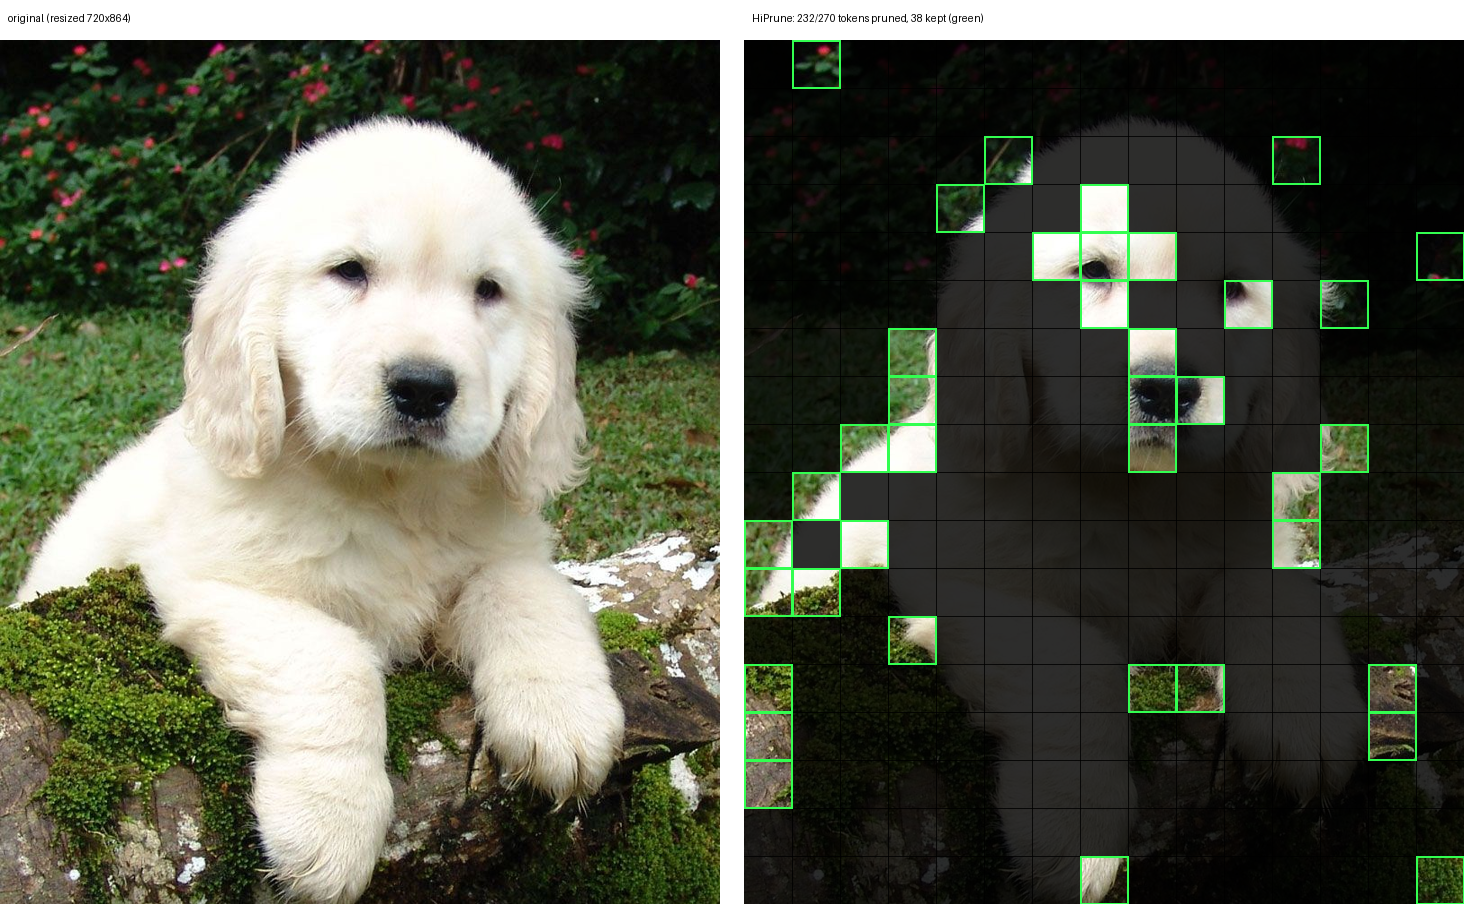
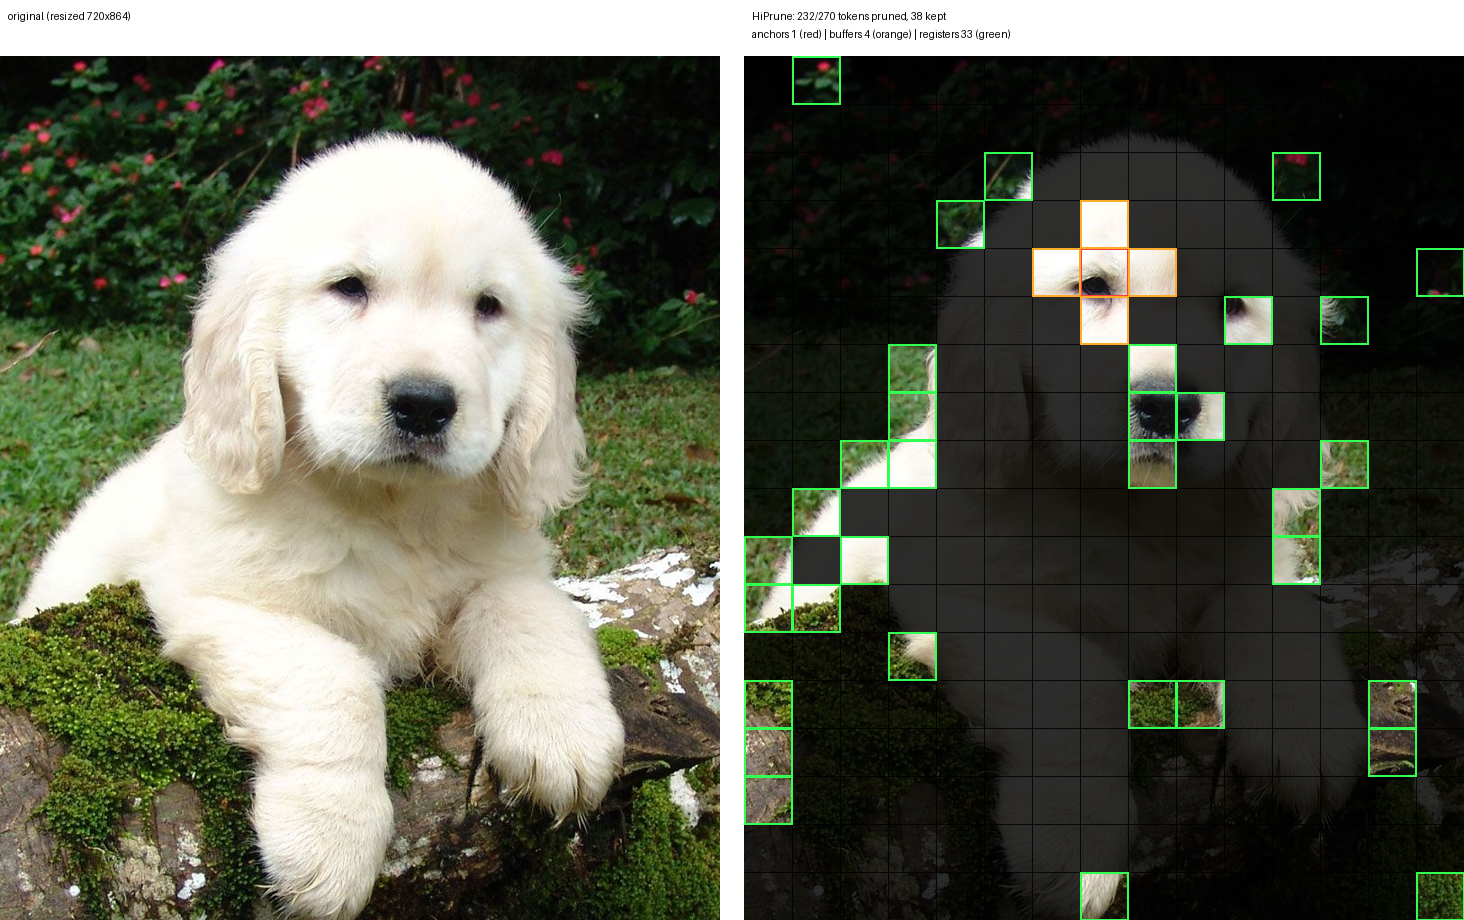
Update overlay demo for token_pruning_metadata categories
The example script now color-codes kept tokens by HiPrune category (anchors red, buffers orange, registers green) using the new token_pruning_metadata response field, and prints the per-category mean attention.

diff --git a/examples/hiprune/visualize_pruned.py b/examples/hiprune/visualize_pruned.py
@@ -1,8 +1,13 @@
 """Render a HiPrune overlay from a vLLM chat response.
 
-Reads the original image and the `pruned_token_indices` returned by the
-vLLM server, maps each pruned soft-token index onto Gemma 4's 48x48 px
-grid, and saves a side-by-side figure: original | pruned overlay.
+Reads the original image and the pruning data returned by the vLLM
+server and draws it over the image: pruned 48x48 px cells are darkened
+and kept cells are outlined by HiPrune category — anchors (red),
+buffers (orange), registers (green).
+
+Prefers the `token_pruning_metadata` response field (which carries the
+grid and token categories); falls back to `pruned_token_indices` (kept
+cells all green, grid reconstructed from the image size).
 
 Usage:
     python3 visualize_pruned.py <image> <response.json> <output.png>
@@ -17,6 +22,11 @@ POOL_K = 3      # Gemma pools 3x3 patches into one soft token
 PATCH = 16      # ViT patch size in px
 CELL = POOL_K * PATCH  # 48 px of resized image per soft token
 MAX_SOFT_TOKENS = 280
+
+ANCHOR_COLOR = (255, 60, 60, 255)
+BUFFER_COLOR = (255, 170, 40, 255)
+REGISTER_COLOR = (50, 255, 80, 255)
+PRUNED_FILL = (0, 0, 0, 210)
 
 
 def gemma_grid(width: int, height: int) -> tuple[int, int]:
@@ -43,41 +53,70 @@ def main() -> None:
     img = Image.open(image_path).convert("RGB")
     with open(resp_path) as f:
         resp = json.load(f)
-    pruned = resp["pruned_token_indices"][0]
 
-    grid_w, grid_h = gemma_grid(*img.size)
+    metadata = (resp.get("token_pruning_metadata") or [None])[0]
+    if metadata is not None:
+        grid_w, grid_h = metadata["grid"]
+        pruned = metadata["pruned"]
+        categories = {
+            "anchor": (metadata["anchors"], ANCHOR_COLOR),
+            "buffer": (metadata["buffers"], BUFFER_COLOR),
+            "register": (metadata["registers"], REGISTER_COLOR),
+        }
+    else:
+        grid_w, grid_h = gemma_grid(*img.size)
+        pruned = resp["pruned_token_indices"][0]
+        kept = sorted(set(range(grid_w * grid_h)) - set(pruned))
+        categories = {"kept": (kept, REGISTER_COLOR)}
+
     n_soft = grid_w * grid_h
     resized = img.resize((grid_w * CELL, grid_h * CELL), Image.BICUBIC)
+
+    def cell_box(idx: int) -> list[int]:
+        r, c = idx // grid_w, idx % grid_w
+        return [c * CELL, r * CELL, c * CELL + CELL, r * CELL + CELL]
 
     overlay = resized.copy()
     draw = ImageDraw.Draw(overlay, "RGBA")
     for idx in pruned:
-        r, c = idx // grid_w, idx % grid_w
-        x0, y0 = c * CELL, r * CELL
-        draw.rectangle([x0, y0, x0 + CELL, y0 + CELL], fill=(0, 0, 0, 210))
-    # Outline kept cells so they pop.
-    kept = sorted(set(range(n_soft)) - set(pruned))
-    for idx in kept:
-        r, c = idx // grid_w, idx % grid_w
-        x0, y0 = c * CELL, r * CELL
-        draw.rectangle([x0, y0, x0 + CELL, y0 + CELL], outline=(50, 255, 80, 255), width=2)
+        draw.rectangle(cell_box(idx), fill=PRUNED_FILL)
+    for _, (indices, color) in categories.items():
+        for idx in indices:
+            draw.rectangle(cell_box(idx), outline=color, width=2)
 
     gap = 24
     canvas = Image.new(
-        "RGB", (resized.width * 2 + gap, resized.height + 40), (255, 255, 255)
+        "RGB", (resized.width * 2 + gap, resized.height + 56), (255, 255, 255)
     )
-    canvas.paste(resized, (0, 40))
-    canvas.paste(overlay, (resized.width + gap, 40))
+    canvas.paste(resized, (0, 56))
+    canvas.paste(overlay, (resized.width + gap, 56))
     d = ImageDraw.Draw(canvas)
-    d.text((8, 12), f"original (resized {resized.width}x{resized.height})", fill=(0, 0, 0))
+    d.text((8, 10), f"original (resized {resized.width}x{resized.height})", fill=(0, 0, 0))
+    n_kept = n_soft - len(pruned)
     d.text(
-        (resized.width + gap + 8, 12),
-        f"HiPrune: {len(pruned)}/{n_soft} tokens pruned, {len(kept)} kept (green)",
+        (resized.width + gap + 8, 10),
+        f"HiPrune: {len(pruned)}/{n_soft} tokens pruned, {n_kept} kept",
         fill=(0, 0, 0),
     )
+    if metadata is not None:
+        d.text(
+            (resized.width + gap + 8, 28),
+            f"anchors {len(metadata['anchors'])} (red) | "
+            f"buffers {len(metadata['buffers'])} (orange) | "
+            f"registers {len(metadata['registers'])} (green)",
+            fill=(0, 0, 0),
+        )
     canvas.save(out_path)
     print(f"grid {grid_w}x{grid_h} = {n_soft} soft tokens; "
-          f"{len(pruned)} pruned, {len(kept)} kept -> {out_path}")
+          f"{len(pruned)} pruned, {n_kept} kept -> {out_path}")
+    if metadata is not None:
+        ma = metadata["mean_attention"]
+        print("mean attention (object layer):",
+              {k: (round(v, 6) if v is not None else None)
+               for k, v in ma["object_layer"].items()})
+        print("mean attention (deep layer)  :",
+              {k: (round(v, 6) if v is not None else None)
+               for k, v in ma["deep_layer"].items()})
 
 
 if __name__ == "__main__":

diff --git a/examples/hiprune/README.md b/examples/hiprune/README.md
@@ -1,9 +1,17 @@
 # HiPrune demo: visualize pruned patches from a served response
 
-`visualize_pruned.py` renders the `pruned_token_indices` returned by a
-vLLM server running Gemma 4 with HiPrune (see the `token_pruning` request
-field) as an overlay on the original image: pruned 48x48 px cells are
-darkened, kept cells are outlined in green.
+`visualize_pruned.py` renders the pruning data returned by a vLLM server
+running Gemma 4 with HiPrune (see the `token_pruning` request field) as
+an overlay on the original image: pruned 48x48 px cells are darkened and
+kept cells are outlined by HiPrune category — anchors (red), buffers
+(orange), registers (green).
+
+Responses carry two pruning fields:
+
+- `pruned_token_indices` — per image, the soft-token indices dropped.
+- `token_pruning_metadata` — per image, the full statistics: grid
+  dimensions, anchor/buffer/register/pruned index sets, and mean
+  attention per category at the object and deep encoder layers.
 
 ## Usage
 
@@ -38,7 +46,8 @@ darkened, kept cells are outlined in green.
 ## Example output
 
 `pruned_overlay.png` was produced from a real serving run at
-`token_pruning: 0.14`: 232 of 270 soft tokens pruned, 38 kept, and the
-model still answered "Golden Retriever".
+`token_pruning: 0.14`: 232 of 270 soft tokens pruned, 38 kept (1 anchor,
+4 buffers, 33 registers), and the model still answered "Golden
+Retriever".
 
 ![example overlay](pruned_overlay.png)